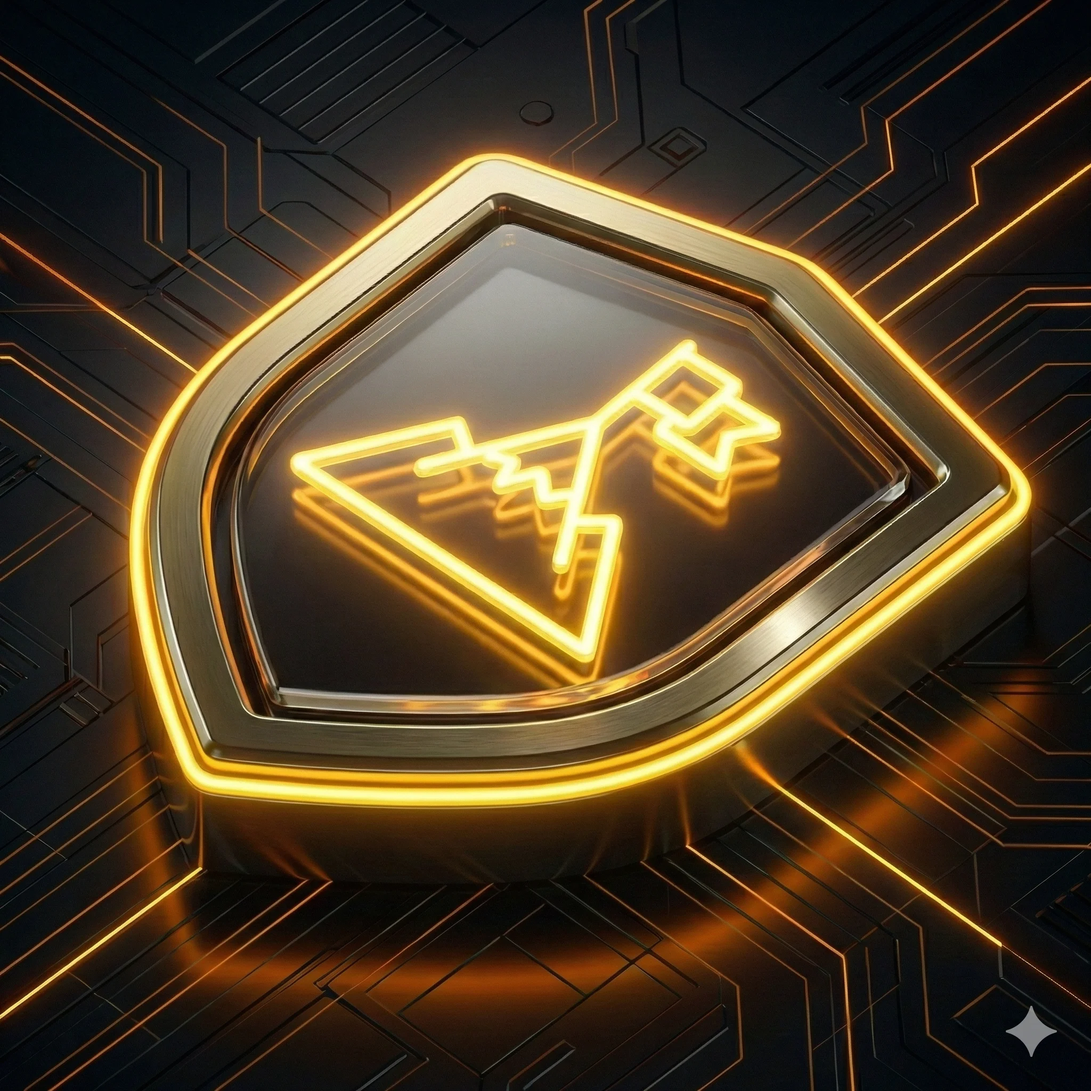
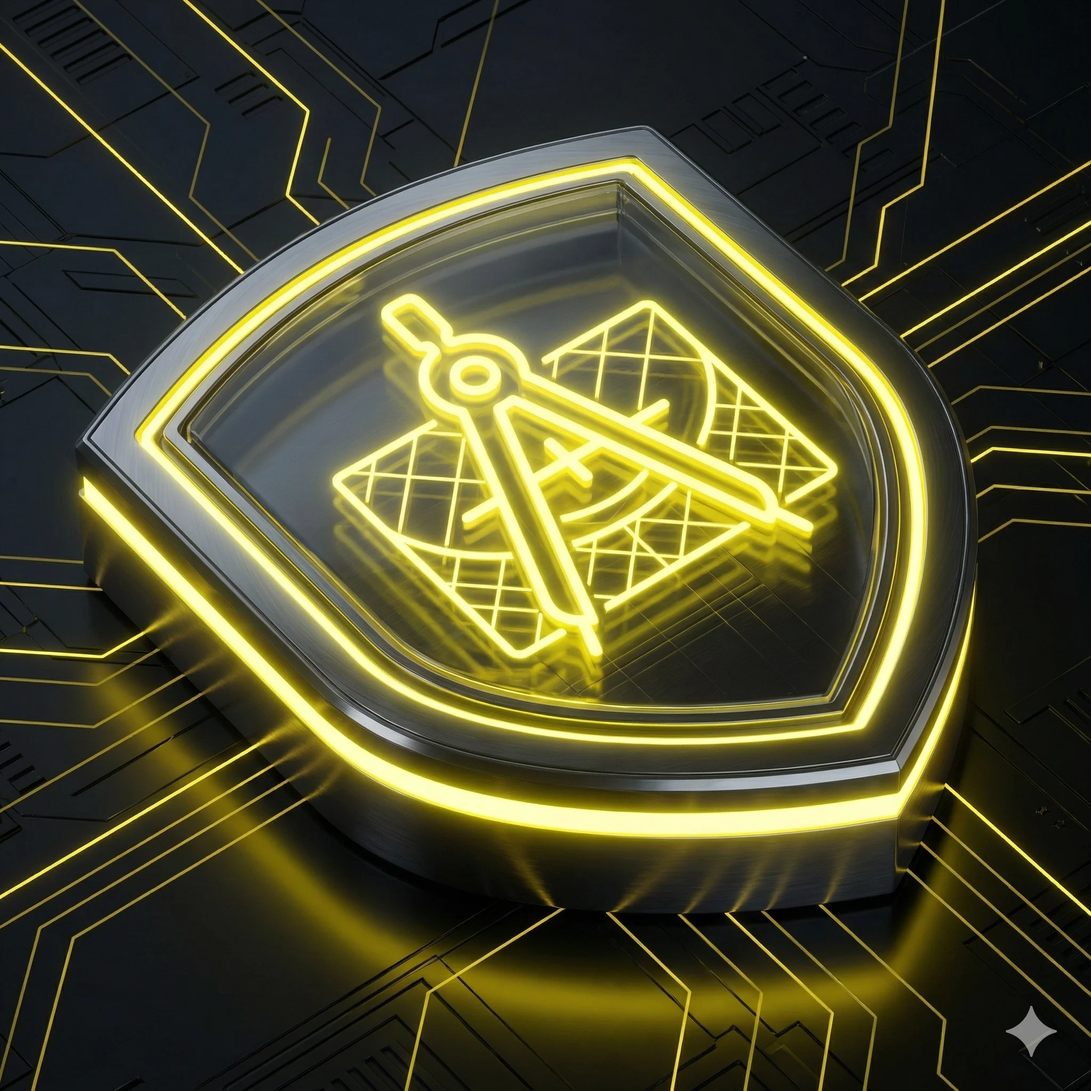
feat: Update level display format and replace level6 badge
- Show "Levelname - Level X" instead of just level name in sidebar
- Replace level6 badge images (both sizes)

diff --git a/components/guesser/UserSidebar.tsx b/components/guesser/UserSidebar.tsx
@@ -174,7 +174,7 @@ export function UserSidebar({ className }: UserSidebarProps) {
           <div className="mb-4">
             {/* Level name above progress bar */}
             <p className="text-sm text-success font-medium mb-2 text-center">
-              {levelData.levelName}
+              {levelData.levelName} - Level {levelData.level}
             </p>
 
             {/* Progress bar with glow */}
